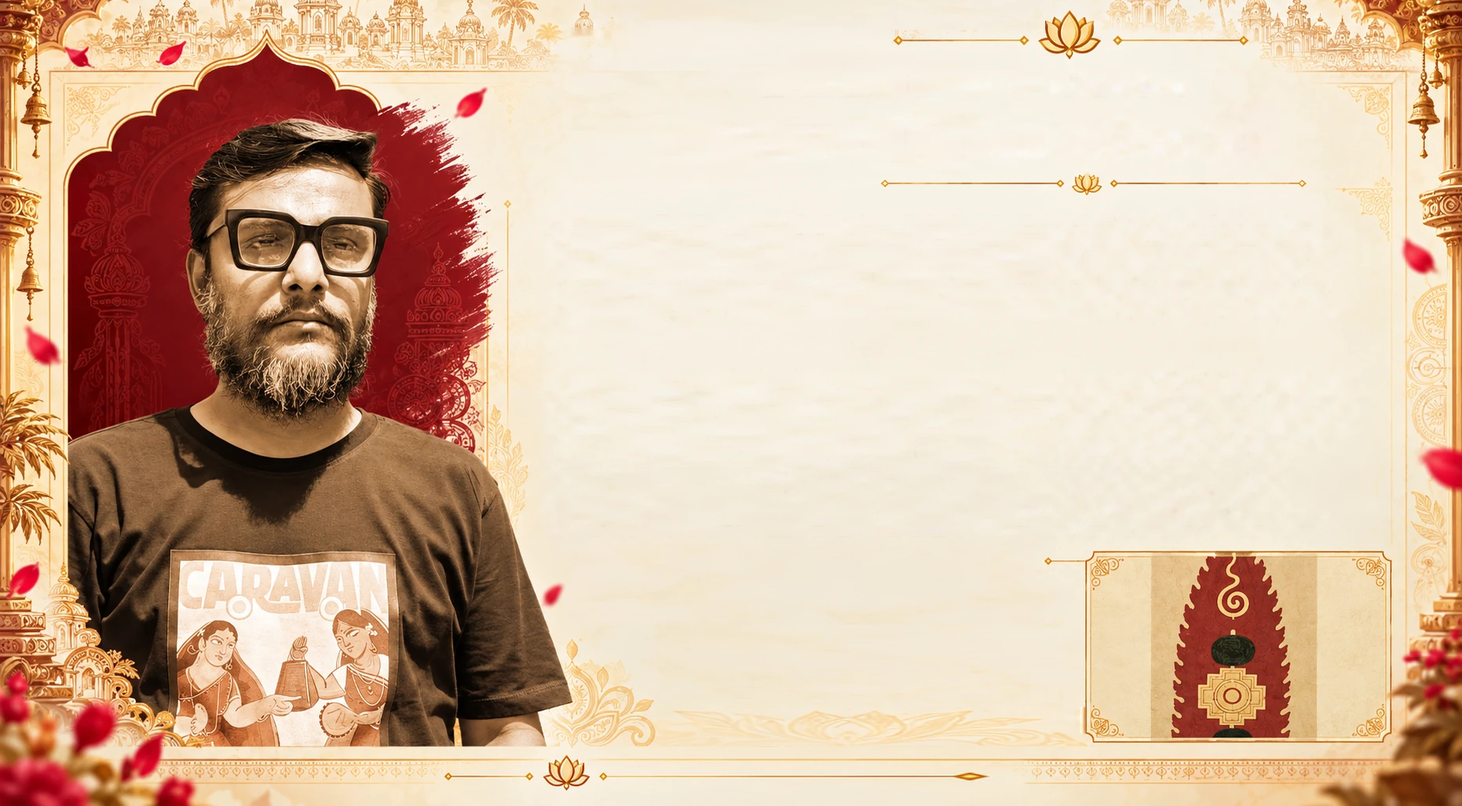
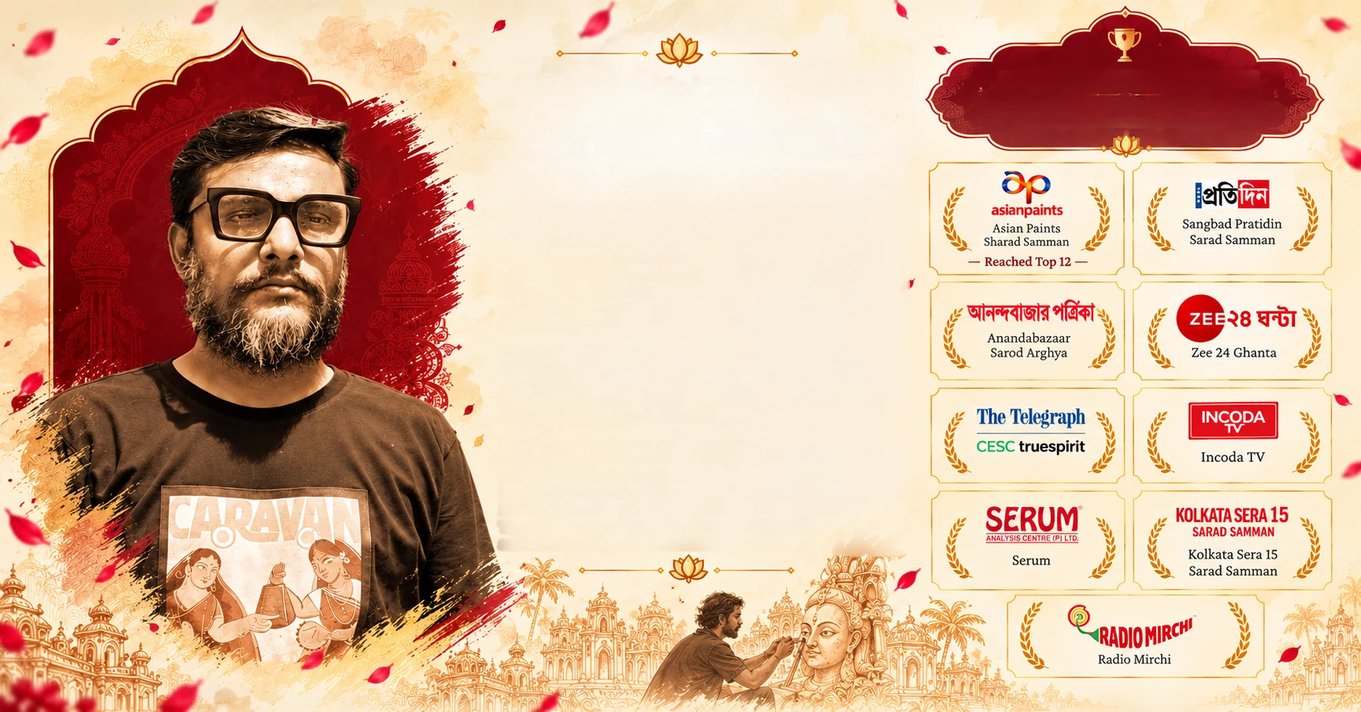
Poetry style bengali text

diff --git a/src/Pages/ArtistYear.jsx b/src/Pages/ArtistYear.jsx
@@ -4,10 +4,31 @@ import { useScrollPhase } from './useScrollPhase.js'
 import { useLanguage } from '../i18n/context.js'
 import bg from '../assets/artistYear/bg.webp'
 import portrait from '../assets/artistYear/portrait.webp'
-import inset from '../assets/artistYear/inset.webp'
+import award1 from '../assets/artistYear/award1.webp'
+import award2 from '../assets/artistYear/award2.webp'
+import award3 from '../assets/artistYear/award3.webp'
+import award4 from '../assets/artistYear/award4.webp'
+import award5 from '../assets/artistYear/award5.webp'
+import award6 from '../assets/artistYear/award6.webp'
+import award7 from '../assets/artistYear/award7.webp'
+import award8 from '../assets/artistYear/award8.webp'
+import award9 from '../assets/artistYear/award9.webp'
 import './artistYear/ArtistYear.css'
 
-// Pinned, scroll-scrubbed section laid out on the widened 1862 x 1026 artwork: the heading and both paragraphs build in over the portrait.
+// The award plaques are part of the artwork on desktop; on phones the artwork is hidden, so they are shown as a grid of these crops.
+const AWARDS = [
+  [award1, 'Asian Paints Sharad Samman — Reached Top 12'],
+  [award2, 'Sangbad Pratidin Sarad Samman'],
+  [award3, 'Anandabazaar Sarod Arghya'],
+  [award4, 'Zee 24 Ghanta'],
+  [award5, 'The Telegraph — CESC truespirit'],
+  [award6, 'Incoda TV'],
+  [award7, 'Serum'],
+  [award8, 'Kolkata Sera 15 Sarad Samman'],
+  [award9, 'Radio Mirchi'],
+]
+
+// Pinned, scroll-scrubbed section laid out on the 1733 x 907 artwork: the heading, the story and the awards note build in around the portrait.
 export default function ArtistYear() {
   const trackRef = useRef(null)
   const frameRef = useRef(null)
@@ -15,7 +36,7 @@ export default function ArtistYear() {
   const { t } = useLanguage()
 
   useEffect(() => {
-    const scene = createAboutScene(stageRef.current, { artW: 1862, artH: 1026, diyas: [], band: 0.1 })
+    const scene = createAboutScene(stageRef.current, { artW: 1733, artH: 907, diyas: [], band: 0.1 })
     return () => scene.dispose()
   }, [])
   useScrollPhase(trackRef, frameRef, { coverVar: '--cover6', hold: true })
@@ -34,39 +55,59 @@ export default function ArtistYear() {
           <img className="dp-ay__bg" src={bg} alt="" draggable="false" />
 
           <h2 className="dp-ay__head">
-            <span className="dp-ay__kick dp-ph" style={{ ...ph(0.03, 0.1), left: ux(1369), top: uy(108) }}>
+            <span className="dp-ay__kick dp-ph" style={{ ...ph(0.03, 0.1), left: ux(884), top: uy(111) }}>
               {t({ bn: 'এ বছরের রূপের নেপথ্য শিল্পী', en: 'The Artist Behind This Year’s Look' })}
             </span>
-            <span className="dp-ay__name dp-ph" style={{ ...ph(0.08, 0.14), left: ux(1398), top: uy(178) }}>
+            <span className="dp-ay__name dp-ph" style={{ ...ph(0.08, 0.14), left: ux(886), top: uy(170) }}>
               {t({ bn: 'অভিজিৎ ঘটক', en: 'Avijit Ghatak' })}
+            </span>
+            <span className="dp-ay__tag dp-ph" style={{ ...ph(0.14, 0.1), left: ux(885), top: uy(223) }}>
+              {t({ bn: 'শিল্পী · দূরদর্শী · গল্পকার', en: 'Artist · Visionary · Storyteller' })}
             </span>
           </h2>
 
           <img className="dp-ay__pic is-portrait" src={portrait} alt={t({ bn: 'শিল্পী অভিজিৎ ঘটক', en: 'Artist Avijit Ghatak' })} draggable="false" />
 
-          <div className="dp-ay__text" style={{ left: ux(860), top: uy(264), width: ux(900) }}>
-            {/* keeps the story clear of the picture box in the bottom right */}
-            <span className="dp-ay__shim" aria-hidden="true" />
-            <p className="dp-ay__p dp-ph" style={{ ...ph(0.2, 0.2),  }}>
+          <div className="dp-ay__text" style={{ left: ux(636), top: uy(252), width: ux(514) }}>
+            <p className="dp-ay__p dp-ph" style={ph(0.2, 0.2)}>
               {t({
                 bn: 'অভিজিৎ ঘটক একজন শিক্ষাগতভাবে প্রশিক্ষিত শিল্পী, যিনি ২০১৪ সালে জামশেদপুরের টাটানগরে পিয়ারা সিং ধুরন্ধর মেমোরিয়াল ক্লাবের সহযোগিতায় দুর্গাপূজার পাবলিক আর্ট ইনস্টলেশন প্রকল্পের মাধ্যমে তাঁর যাত্রা শুরু করেন। তারপর এক দশক পেরিয়ে গেছে, এই সময়ে তিনি কলকাতার দুর্গাপূজার শিল্পী-সমাজে নিজের একটি পরিচয় গড়ে তুলেছেন। বছরের পর বছর, স্থান-নির্মাণ ও উপকরণ-অন্বেষণে অভিজিতের উদ্ভাবনী দৃষ্টিভঙ্গি সহকর্মী ও সাধারণ মানুষের কাছ থেকে সমালোচকদের প্রশংসা অর্জন করেছে।',
                 en: 'Avijit Ghatak is an academically trained artist who embarked on his journey of Durga Puja public art installation project in 2014 in collaboration with Pyara Singh Dhurandar Memorial Club in Tatanagar, Jamshedpur. Since then, a decade has passed where he had established a name for himself within Kolkata’s Durga Puja art fraternity. Over the years, Avijit’s innovative approach to space-making and material exploration has earned him critical appraisal from his peers and the public.',
               })}
             </p>
-            <p className="dp-ay__p dp-ph" style={{ ...ph(0.42, 0.22),  }}>
+            <p className="dp-ay__p dp-ph" style={ph(0.32, 0.2)}>
               {t({
-                bn: 'আলিপুর ৭৮ পল্লী (২০২৪, ২০২১); সন্তোষপুর লেক পল্লী (২০২৪, ২০২০); কাঁকুড়গাছি যুবক সংঘ (২০২৩); সল্টলেক এই ই পার্ট ১; তেলেঙ্গাবাগান সর্বজনীন; নলিন সরকার স্ট্রিট; বেহালা দেবদারু ফটক; শ্যামাগি পল্লী শ্যামা সংঘ এবং আরও অনেকের সঙ্গে তাঁর সাম্প্রতিক সহযোগিতা তাঁর স্বতন্ত্র ব্যক্তিত্বকে প্রতিষ্ঠিত করেছে। একজন দৃশ্যশিল্প-অনুশীলনকারী হিসেবে অভিজিৎ স্বাধীন প্রকল্পের সঙ্গেও যুক্ত থেকেছেন, যা কমিউনিটি-ভিত্তিক শিল্পের বৃহত্তর আলোচনার মধ্যে নিজের অবস্থান খুঁজে নেয়। সম্প্রতি তিনি অধ্যাপক ছত্রপতি দত্তের সৃজনশীল সহযোগী হিসেবে বেঙ্গল বিয়েনেল ২০২৪-এর অংশ ছিলেন।',
-                en: 'His recent collaborations with Alipore 78 Pally (2024, 2021); Santoshpur Lake Pally (2024, 2020); Kankurgachi Yubak Sangha (2023); Saltlake AE Part 1; Telengabagan Sarbajonin; Nalin Sarkar Street; Behala Debdaru Fatak; Shyamagi Pally Shyama Sangha and others have established his individualism. As a visual art practitioner, Avijit has also been engaged with independent projects that situates itself within the larger discourse of community-based art. He has recently been a part of Bengal Biennale 2024 as a creative associate to Prof. Chattrapati Dutta.',
+                bn: 'আলিপুর ৭৮ পল্লী (২০২৪, ২০২১); সন্তোষপুর লেক পল্লী (২০২৪, ২০২০); কাঁকুড়গাছি যুবক সংঘ (২০২৩); সল্টলেক এই ই পার্ট ১; তেলেঙ্গাবাগান সর্বজনীন; নলিন সরকার স্ট্রিট; বেহালা দেবদারু ফটক; শ্যামাগি পল্লী শ্যামা সংঘ এবং আরও অনেকের সঙ্গে তাঁর সাম্প্রতিক সহযোগিতা তাঁর স্বতন্ত্র ব্যক্তিত্বকে প্রতিষ্ঠিত করেছে।',
+                en: 'His recent collaborations with Alipore 78 Pally (2024, 2021); Santoshpur Lake Pally (2024, 2020); Kankurgachi Yubak Sangha (2023); Saltlake AE Part 1; Telengabagan Sarbajonin; Nalin Sarkar Street; Behala Debdaru Fatak; Shyamagi Pally Shyama Sangha and others have established his individualism.',
               })}
-              <br />
+            </p>
+            <p className="dp-ay__p dp-ph" style={ph(0.44, 0.22)}>
               {t({
-                bn: 'তাঁর ইনস্টলেশন বেহালা আর্ট ফেস্ট (২০২০, ২০২১); বারুইপুর সিমলাবাদে টাইম অ্যান্ড স্পেস প্রকল্প (২০২০); এবং ঘোঘাট-এ ন্যারেটিভ মুভমেন্টের উদ্যোগেও প্রদর্শিত হয়েছে।',
-                en: 'His installations were also part of Behala Art Fest (2020, 2021); Time and Space project at Baruipur Simlabad (2020); and at Narrative Movement’s initiative at Goghat.',
+                bn: 'একজন দৃশ্যশিল্প-অনুশীলনকারী হিসেবে অভিজিৎ স্বাধীন প্রকল্পের সঙ্গেও যুক্ত থেকেছেন, যা কমিউনিটি-ভিত্তিক শিল্পের বৃহত্তর আলোচনার মধ্যে নিজের অবস্থান খুঁজে নেয়। সম্প্রতি তিনি অধ্যাপক ছত্রপতি দত্তের সৃজনশীল সহযোগী হিসেবে বেঙ্গল বিয়েনেল ২০২৪-এর অংশ ছিলেন। তাঁর ইনস্টলেশন বেহালা আর্ট ফেস্ট (২০২০, ২০২১); বারুইপুর সিমলাবাদে টাইম অ্যান্ড স্পেস প্রকল্প (২০২০); এবং ঘোঘাট-এ ন্যারেটিভ মুভমেন্টের উদ্যোগেও প্রদর্শিত হয়েছে।',
+                en: 'As a visual art practitioner, Avijit has also been engaged with independent projects that situates itself within the larger discourse of community-based art. He has recently been a part of Bengal Biennale 2024 as a creative associate to Prof. Chattrapati Dutta. His installations were also part of Behala Art Fest (2020, 2021); Time and Space project at Baruipur Simlabad (2020); and at Narrative Movement’s initiative at Goghat.',
               })}
             </p>
           </div>
 
-          <img className="dp-ay__pic is-inset" src={inset} alt="" draggable="false" />
+          {/* heading on the red banner above the award plaques (the plaques themselves are in the artwork) */}
+          <div className="dp-ay__awards dp-ph" style={{ ...ph(0.56, 0.16), left: ux(1432), top: uy(88) }}>
+            <h3>{t({ bn: 'পুরস্কার ও স্বীকৃতি', en: 'Awards & Recognitions' })}</h3>
+            <p>
+              {t({ bn: 'দুর্গাপূজার শিল্পে তাঁর সৃজনশীল দৃষ্টিভঙ্গি ও অবদানের জন্য', en: 'Honoured for his creative ' })}
+              <em>{t({ bn: '', en: 'vision and' })}</em>
+              {t({ bn: '', en: ' contribution' })}{' '}
+              <br />
+              {t({ bn: 'বছরের পর বছর সম্মানিত', en: 'to Durga Puja art through the years' })}
+            </p>
+          </div>
+
+          <ul className="dp-ay__plaques">
+            {AWARDS.map(([src, name]) => (
+              <li key={name}>
+                <img src={src} alt={name} draggable="false" loading="lazy" />
+              </li>
+            ))}
+          </ul>
 
           {/* Three.js overlay: drifting petals and gold dust */}
           <div className="dp-ay__stage" ref={stageRef} aria-hidden="true" />

diff --git a/src/Pages/artistYear/ArtistYear.css b/src/Pages/artistYear/ArtistYear.css
@@ -1,4 +1,4 @@
-/* Laid out on the 1448 x 1086 artwork (--u = one artwork pixel at the current frame width).
+/* Laid out on the 1733 x 907 artwork (--u = one artwork pixel at the current frame width).
    --p (0 -> 1) is the scroll progress; every .dp-ph element turns it into its own phase --e / --k from --s (start) and --l (length). */
 .dp-ay {
   -webkit-mask-image: linear-gradient(to bottom, transparent 0, #000 22vh);
@@ -28,10 +28,10 @@
   pointer-events: none;
 }
 .dp-ay__frame {
-  /* the artwork (1862 x 1026 under the navbar) fills the viewport width and the space under the navbar, like the
+  /* the artwork (1733 x 907 under the navbar) fills the viewport width and the space under the navbar, like the
      other pinned sections. Positions use --ux / --uy; fonts and borders --u. */
-  --ux: calc(100cqw / 1862);
-  --uy: calc(100cqh / 1026);
+  --ux: calc(100cqw / 1733);
+  --uy: calc(100cqh / 907);
   --u: min(var(--ux), var(--uy));
   --p: 0;
   container-type: size;
@@ -67,38 +67,73 @@
 /* ---- heading ---- */
 .dp-ay__head { margin: 0; font-weight: 400; }
 .dp-ay__kick,
-.dp-ay__name {
+.dp-ay__name,
+.dp-ay__tag {
   position: absolute;
   margin: 0;
   white-space: nowrap;
   text-align: center;
-  color: #6f0a1c;
 }
 .dp-ay__kick {
-  font: 700 calc(50 * var(--u)) / 1.2 'Playfair Display', 'Noto Serif Bengali', Georgia, serif;
+  color: #6f0a1c;
+  font: 700 calc(29 * var(--u)) / 1.2 'Playfair Display', 'Noto Serif Bengali', Georgia, serif;
   transform: translate(-50%, calc(-50% + (1 - var(--k)) * -14 * var(--u)));
 }
 .dp-ay__name {
-  font: 800 calc(90 * var(--u)) / 1.2 'Playfair Display', 'Noto Serif Bengali', Georgia, serif;
+  color: #6f0a1c;
+  font: 800 calc(76 * var(--u)) / 1.2 'Playfair Display', 'Noto Serif Bengali', Georgia, serif;
   text-shadow: 0 calc(3 * var(--u)) calc(12 * var(--u)) rgba(122, 10, 28, 0.18);
   transform: translate(-50%, calc(-50% + (1 - var(--k)) * 18 * var(--u)));
   filter: blur(calc((1 - var(--k)) * 10px));
 }
+.dp-ay__tag {
+  color: #7a2a10;
+  font: 500 calc(13 * var(--u)) / 1.2 'Cinzel', 'Noto Serif Bengali', Georgia, serif;
+  letter-spacing: 0.32em;
+  text-transform: uppercase;
+  transform: translate(-50%, -50%);
+}
 
 /* ---- story ---- */
 .dp-ay__text { position: absolute; }
-.dp-ay__shim { float: right; width: calc(402 * var(--ux)); height: calc(760 * var(--uy)); shape-outside: polygon(0 57.9%, 100% 57.9%, 100% 100%, 0 100%); }
 .dp-ay__p {
-  margin: 0 0 calc(20 * var(--uy));
+  margin: 0 0 calc(11 * var(--uy));
   text-align: left;
   clip-path: inset(0 calc((1 - var(--k)) * 100%) 0 0); /* the text wipes in from the left */
-  font: 400 var(--fs-body) / 1.4 'Crimson Pro', 'Noto Serif Bengali', Georgia, serif;
+  font: 400 calc(18.4 * var(--u)) / 1.2 'Crimson Pro', 'Noto Serif Bengali', Georgia, serif;
   color: #3a2418;
 }
-/* the longer English heading is a little smaller so it stays inside the ornament lines */
-:root[lang='en'] .dp-ay__kick { font-size: calc(43 * var(--u)); }
-:root[lang='bn'] .dp-ay__kick { font-size: calc(44 * var(--u)); }
-:root[lang='bn'] .dp-ay__name { font-size: calc(80 * var(--u)); }
+
+/* ---- awards banner (plaques are in the artwork on desktop) ---- */
+.dp-ay__awards {
+  position: absolute;
+  width: calc(400 * var(--ux));
+  text-align: center;
+  transform: translate(-50%, calc((1 - var(--k)) * 10 * var(--u)));
+}
+.dp-ay__awards h3 {
+  margin: 0;
+  font: 500 calc(25 * var(--u)) / 1.2 'Cinzel', 'Noto Serif Bengali', Georgia, serif;
+  letter-spacing: 0.04em;
+  text-transform: uppercase;
+  background: linear-gradient(#ffe9b0, #e9b966);
+  -webkit-background-clip: text;
+  background-clip: text;
+  -webkit-text-fill-color: transparent;
+}
+.dp-ay__awards p {
+  margin: calc(7 * var(--u)) 0 0;
+  font: 400 calc(16.4 * var(--u)) / 1.3 'Crimson Pro', 'Noto Serif Bengali', Georgia, serif;
+  color: #fbe9cc;
+}
+.dp-ay__awards em { font-style: normal; color: #f2c46c; }
+.dp-ay__plaques { display: none; }
+:root[lang='bn'] .dp-ay__kick { font-size: calc(28 * var(--u)); }
+:root[lang='bn'] .dp-ay__name { font-size: calc(70 * var(--u)); }
+:root[lang='bn'] .dp-ay__tag { letter-spacing: 0.12em; font-size: calc(15 * var(--u)); }
+:root[lang='bn'] .dp-ay__p { font-size: calc(17.4 * var(--u)); line-height: 1.32; }
+:root[lang='bn'] .dp-ay__awards h3 { letter-spacing: 0; font-size: calc(26 * var(--u)); text-transform: none; }
+:root[lang='bn'] .dp-ay__awards p { font-size: calc(15 * var(--u)); line-height: 1.3; }
 
 /* ---- phones / small tablets: no pin, everything stacks ---- */
 @media (max-width: 820px) {
@@ -123,12 +158,27 @@
   .dp-ay__backdrop, .dp-ay__bg, .dp-ay__stage { display: none; }
   .dp-ph { opacity: 1; transform: none !important; clip-path: none !important; filter: none !important; }
   .dp-ay__head { display: flex; flex-direction: column; align-items: center; gap: 4px; }
-  .dp-ay__shim { display: none; }
   .dp-ay__text { position: static; left: auto !important; top: auto !important; width: auto !important; }
-  .dp-ay__kick, .dp-ay__name, .dp-ay__p { position: static; left: auto !important; top: auto !important; width: auto !important; white-space: normal; transform: none; }
+  .dp-ay__kick, .dp-ay__name, .dp-ay__tag, .dp-ay__p, .dp-ay__awards { position: static; left: auto !important; top: auto !important; width: auto !important; white-space: normal; transform: none; }
   .dp-ay__kick, :root[lang='bn'] .dp-ay__kick { font-size: clamp(22px, 6vw, 30px); }
   .dp-ay__name, :root[lang='bn'] .dp-ay__name { font-size: clamp(34px, 10vw, 48px); }
   .dp-ay__pic { display: block; width: 100%; height: auto; border-radius: 14px; box-shadow: 0 8px 24px rgba(90, 20, 20, 0.25); }
   .dp-ay__text { display: flex; flex-direction: column; gap: 14px; }
   .dp-ay__p, :root[lang='bn'] .dp-ay__p { font-size: var(--fs-body); line-height: 1.6; }
+  .dp-ay__tag, :root[lang='bn'] .dp-ay__tag { font-size: 12px; letter-spacing: 0.22em; }
+  :root[lang='bn'] .dp-ay__tag { letter-spacing: 0.08em; font-size: 14px; }
+  .dp-ay__awards {
+    margin-top: 12px;
+    padding: 18px 18px 20px;
+    border: 1.5px solid #d3a04a;
+    border-radius: 18px;
+    background: linear-gradient(#8e0f24, #5e0714);
+    transform: none !important;
+  }
+  .dp-ay__awards h3, :root[lang='bn'] .dp-ay__awards h3 { font-size: 20px; }
+  .dp-ay__awards p, :root[lang='bn'] .dp-ay__awards p { font-size: 15px; }
+  .dp-ay__awards br { display: none; }
+  .dp-ay__plaques { display: grid; grid-template-columns: 1fr; justify-items: center; gap: 12px; list-style: none; margin: 0; padding: 0; }
+  .dp-ay__plaques li { width: 100%; max-width: 300px; }
+  .dp-ay__plaques img { display: block; width: 100%; height: auto; border-radius: 6px; }
 }

diff --git a/src/Pages/About.jsx b/src/Pages/About.jsx
@@ -113,10 +113,13 @@ export default function About({ embedded = false }) {
         </figure>
 
         <p className="dp-about__text dp-at" data-r style={{ '--d': '0.65s' }}>
-          {t({ bn: 'ক্ষুদিরাম নগর, হলদিয়ার দুর্গোৎসব ময়দানে ', en: 'Organised by the ' })}
+          {t({
+            bn: 'প্রতি শরতে যখন আকাশে সাদা মেঘ ভাসে, বাতাসে উৎসবের গন্ধ আসে, তখনই যেন নতুন করে জেগে ওঠে লক্ষ্মণ শেঠের দুর্গাপূজা। প্রধান পৃষ্ঠপোষক ডঃ লক্ষ্মণ চন্দ্র শেঠের নেতৃত্বে এই পূজা আজ শুধু একটি আয়োজন নয়, হলদিয়ার মানুষের আবেগ, বিশ্বাস ও মিলনের এক আপন ঠিকানা। প্রতি বছর মায়ের আগমনের সঙ্গে বদলে যায় উৎসবের রূপ, কিন্তু থেকে যায় মানুষের ভালোবাসা আর একসঙ্গে আনন্দ করার সেই চিরচেনা অনুভূতি। ২০২৬ সালে, সেই গল্পে যুক্ত হয়েছে গুজরাটের শিল্প, স্থাপত্য ও কারুকার্যের অনুপ্রেরণা—যা বাংলার দুর্গাপূজার ঐতিহ্য ও আবেগের সঙ্গে মিশে তৈরি করেছে এক অনন্য শিল্পভুবন। যেন গুজরাটের রঙে বাংলার মাটির স্পর্শ, আর তার মাঝখানে বিরাজ করছেন মা দুর্গা। এই উৎসব তাই শুধু প্যান্ডেল বা প্রতিমা দেখার নয়; এটি ফিরে আসার, একসঙ্গে দাঁড়ানোর, পরিচিত মুখে আনন্দ খুঁজে পাওয়ার এবং মায়ের আশীর্বাদে নতুন করে হৃদয় ভরে নেওয়ার গল্প। সেই গল্পের ঠিকানা ক্ষুদিরাম নগর, হলদিয়ার দুর্গোৎসব ময়দান—',
+            en: 'Organised by the ',
+          })}
           <b>{t({ bn: 'হলদিয়া দুর্গোৎসব কমিটির', en: 'Haldia Durgotsav Committee' })}</b>
           {t({
-            bn: ' উদ্যোগে আয়োজিত এই সর্বজনীন দুর্গাপূজা হলদিয়া ও পার্শ্ববর্তী অঞ্চলের মানুষকে বিশ্বাস, সংস্কৃতি ও সম্প্রদায়ের চেতনার উদযাপনে একত্র করে। লক্ষ্মণ শেঠের দুর্গাপূজা নামে পরিচিত এই উৎসবের নেতৃত্বে রয়েছেন প্রধান পৃষ্ঠপোষক ডঃ লক্ষ্মণ চন্দ্র শেঠ। ২০২৬ সালে প্যান্ডেল অনুপ্রেরণা নিয়েছে গুজরাটের সমৃদ্ধ শিল্প, স্থাপত্য ও কারুকৌশল থেকে, যা সযত্নে মিশেছে বাংলার দুর্গাপূজার চিরন্তন ঐতিহ্যের সঙ্গে।',
+            bn: ' আয়োজনে।',
             en: ' at Durgotsav Maidan, Khudiram Nagar, Haldia, this community Durga Puja brings together people from Haldia and nearby areas in a celebration of faith, culture and community spirit. Known as Lakshman Seth’s Durga Puja, the celebration is led by its Chief Patron, Dr. Lakshman Chandra Seth. For 2026, the pandal draws inspiration from the rich art, architecture and craftsmanship of Gujarat, thoughtfully blended with the timeless traditions of Bengal’s Durga Puja.',
           })}
         </p>

diff --git a/src/Pages/about/About.css b/src/Pages/about/About.css
@@ -208,10 +208,14 @@
 :root[lang='bn'] .dp-about__card h4 { font-size: calc(18.5 * var(--u)); font-weight: 700; }
 :root[lang='bn'] .dp-about__card p { font-size: calc(var(--fs-body) * 0.77); line-height: 1.32; }
 :root[lang='bn'] .dp-about__heading { font-size: calc(21 * var(--u)); }
-:root[lang='bn'] .dp-about__place { font-size: calc(15.5 * var(--u)); }
+:root[lang='bn'] .dp-about__place { font-size: calc(19.5 * var(--u)); }
+/* desktop: the pin is in the artwork at the left of the pill, so the text sits right next to it instead of floating in the middle */
+@media (min-width: 821px) {
+  .dp-about__place { justify-content: flex-start; box-sizing: border-box; padding-left: calc(12 * var(--u)); }
+}
 :root[lang='bn'] .dp-about__patron strong { font-size: calc(26 * var(--u)); }
 :root[lang='bn'] .dp-about__patron span { font-size: calc(19.5 * var(--u)); }
-:root[lang='bn'] .dp-about__text { font-size: calc(var(--fs-body) * 1.06); }
+:root[lang='bn'] .dp-about__text { font-size: calc(16.5 * var(--u)); line-height: 1.36; left: calc(268 * var(--u)); width: calc(648 * var(--u)); top: calc(398 * var(--u)); }
 
 /* ---- entrance ---- */
 .dp-about [data-r] {
@@ -252,6 +256,7 @@
   :root[lang='bn'] .dp-about__title { font-size: clamp(34px, 10vw, 54px); }
   .dp-about__text { font-size: var(--fs-body); line-height: 1.7; text-align: center; }
   :root[lang='bn'] .dp-about__text { font-size: calc(var(--fs-body) * 1.06); line-height: 1.7; text-align: center; }
+  :root[lang='bn'] .dp-about__place { font-size: 16px; }
   .dp-about__place { font-size: 13px; padding: 10px 22px; border: 1.5px solid #d3a04a; border-radius: 999px; height: auto; }
   .dp-about__patron strong { font-size: 24px; }
   .dp-about__patron span { font-size: 18px; }

diff --git a/src/Pages/Contact.jsx b/src/Pages/Contact.jsx
@@ -149,7 +149,7 @@ export default function Contact() {
             <ul className="dp-ct__info">
               <li>
                 <Icon name="phone" />
-                <span><a href="tel:+919876543210">+91 98765 43210</a><small>{t({ bn: '(কমিটি হেল্পলাইন)', en: '(Committee Helpline)' })}</small></span>
+                <span><a href="tel:+919830727075">+91 98307 27075</a><small>{t({ bn: '(কমিটি হেল্পলাইন)', en: '(Committee Helpline)' })}</small></span>
               </li>
               <li>
                 <Icon name="mail" />

diff --git a/index.html b/index.html
@@ -13,7 +13,7 @@
     <link rel="preconnect" href="https://fonts.googleapis.com" />
     <link rel="preconnect" href="https://fonts.gstatic.com" crossorigin />
     <link href="https://fonts.googleapis.com/css2?family=Playfair+Display:wght@600;700;800&family=Cinzel:wght@500;600;700&family=Cormorant+Garamond:wght@500;600;700&family=Crimson+Pro:wght@400;500;600&family=Noto+Serif+Bengali:wght@500;700;800&display=swap" rel="stylesheet" />
-    <title>Durga Pujo 2026</title>
+    <title>Durga Puja 2026</title>
   </head>
   <body>
     <div id="root"></div>
